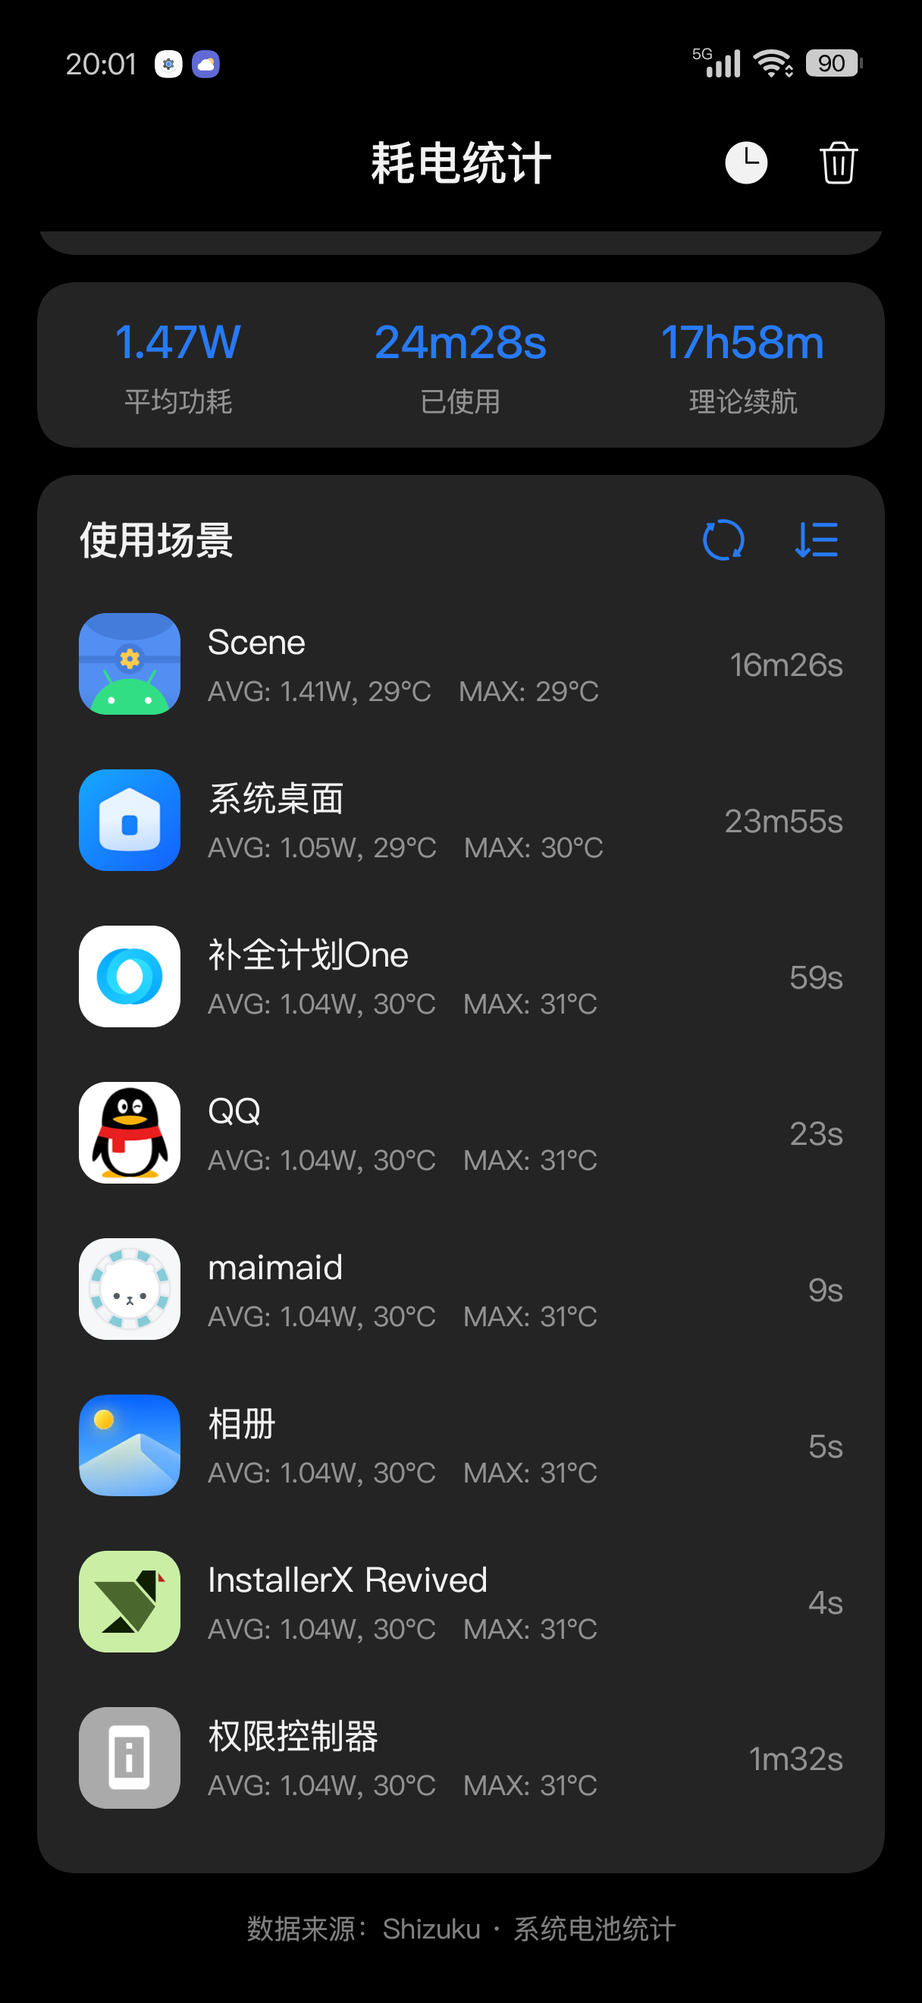
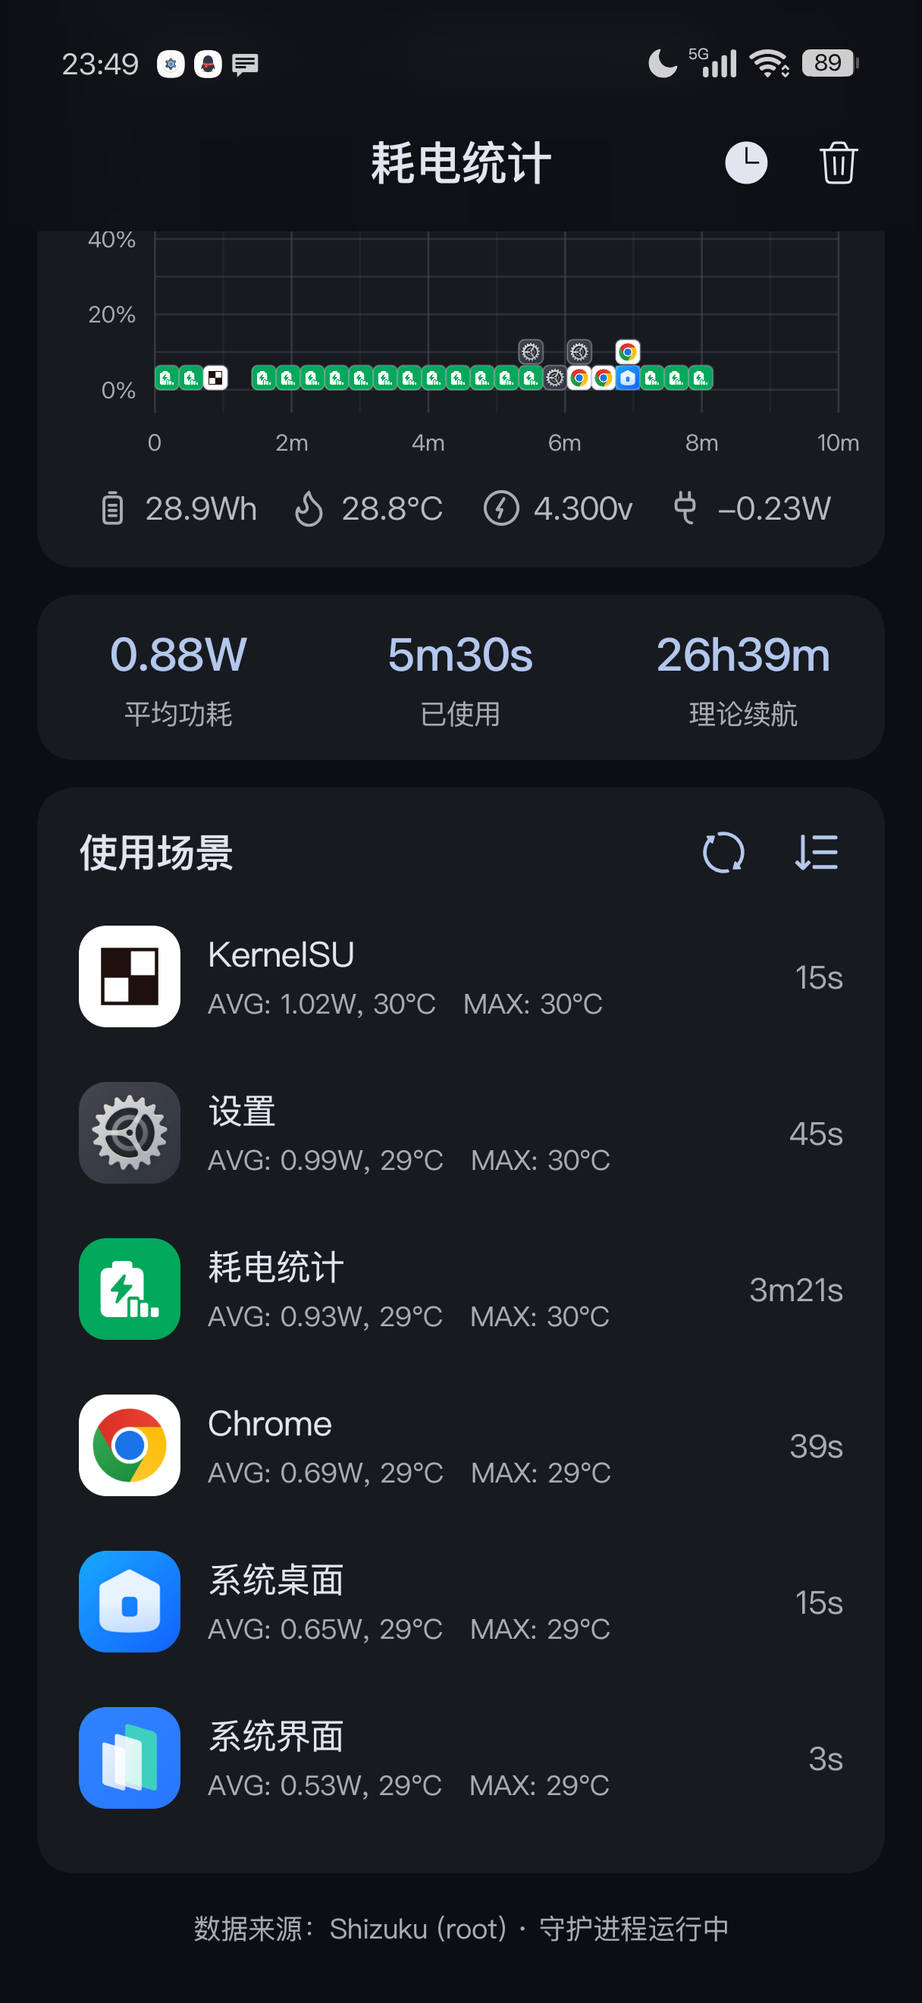
docs: rewrite README as a product introduction and refresh screenshots

diff --git a/README.md b/README.md
@@ -2,150 +2,85 @@
 
 > AI SLOP WARNING.
 
-把 Scene 的「耗电统计」页面单独拆出来做成的独立 App，界面用 **Jetpack Compose + [Miuix](https://github.com/compose-miuix-ui/miuix)**（HyperOS 风格设计系统）重新实现。
-
-参考设计里底部的「在寻找其它功能吗?」一栏按需求**不做**。
+**把 Scene 的「耗电统计」单独拆出来做的轻量 App。**
+实时功率、逐应用耗电、电量曲线，数据全部来自系统自己的电池统计——不上传、不联网。
 
 | 主界面 | 折叠标题 | 说明提示 | 历史记录 |
 | :---: | :---: | :---: | :---: |
 | <img src="docs/screenshots/01-main.png" width="200" /> | <img src="docs/screenshots/02-collapsed.png" width="200" /> | <img src="docs/screenshots/03-legend.png" width="200" /> | <img src="docs/screenshots/04-history.png" width="200" /> |
 
-## 功能
+## 功能一览
 
-| 区块 | 内容 |
-| --- | --- |
-| 使用过程 | 电量曲线：屏幕点亮（蓝色实线）/ 屏幕关闭（灰色实线）/ 未记录（蓝或灰虚线），左侧 0%–100% 刻度，底部时间轴按 Scene 的档位（10m/15m/30m/45m/…/24h）自动缩放 |
-| 图表 app 图标 | 与 Scene 同款：时间按 32px 分列，列内自 0% 基线向上堆叠（每层 34px，32px 图标 + 圆角描边），瓦数越大越靠上；**点击图表隐藏/显示** |
-| 遥测行 | 电池满容量（Wh，按健康度折算）· 温度（°C）· 电压（v）· 实时功率（放电 `-x.xxW` / 充电 `x.xxW`） |
-| 统计行 | 平均功耗 · 已使用 · 理论续航 |
-| 使用场景 | 全部应用（不截断）：前台时长、平均功耗、平均/最高温度；左键切换 W↔mA，右键切换功耗升/降序 |
-| 顶栏 | 大标题随滚动折叠为小标题（无返回键）；历史记录、清除本次统计（删除键有二次确认） |
-| 刷新 | 整页 Miuix PullToRefresh 下拉刷新统计（卡片内不再有刷新按钮） |
-| 历史记录 | 每次清除统计会存档一条：`-x%/h / xW / xWh / xh`，可单条删除或清空 |
-| 说明提示 | 图表虚线含义的说明弹窗（对齐参考图） |
-| 多语言 | 简体中文 / 繁體中文 / English / 日本語；跟随系统语言，Android 13+ 也可在「设置 → 应用 → 耗电统计 → 语言」里单独切换 |
+- **使用过程曲线**：亮屏（蓝色实线）、熄屏（灰色实线）、漏记（虚线）一眼区分；时间轴随会话时长在 10 分钟到 24 小时之间自动伸缩。
+- **图表上的 App 图标**：沿时间轴分列、自下而上堆叠，瓦数越高越靠上；点一下图表即可隐藏 / 显示。
+- **逐应用功耗**：每个 App 的前台时长、平均功耗、平均 / 最高温度，支持 W ↔ mA 切换与功耗排序。
+- **实时遥测**：满容量、温度、电压、瞬时功率（充电显示正值）。
+- **后台守护进程**：通过 Shizuku 以 root 身份独立采样，App 被系统冻结或杀掉也不断记录。
+- **会话与历史**：清除统计自动归档（`-x%/h / xW / xWh / 续航`），可单条删除或清空。
+- **多语言**：简体中文 / 繁體中文 / English / 日本語。
+- **轻量**：release APK 约 2.3 MB，只含 arm64-v8a，无网络权限。
 
-## 数据来源与算法（对齐 Scene 9.4.18）
+## 开始使用
 
-**只走 Shizuku / Sui**：启动即请求权限。Sui 以 root 运行时（`Shizuku.getUid() == 0`）优先读
-`/sys/class/power_supply/`（`current_now` / `voltage_now` / `capacity` / `temp` / `charge_full`，
-即 Scene 用的 sysfs 来源）；只有 shell 身份时退回 `dumpsys battery`；逐应用统计始终用
-`dumpsys batterystats`。
+1. 先装好并激活 **Shizuku**（或 Sui / KernelSU 这类能提供 root shell 的方案）。
+2. 安装 APK（见下方「安装」），打开应用。
+3. 首次启动会请求 Shizuku 授权，允许后即可看到数据。
+4. 正常使用手机即可，App 会在后台持续记录。
 
-| 项目 | 口径（与 Scene 一致） |
-| --- | --- |
-| 采样 | **只在「放电 + 亮屏」时**每 3 s 记一条；充电/满电不记；熄屏补一个标记点后停止 |
-| 平均功耗 | `avg(current × voltage)`（mW→W），只统计本会话亮屏放电样本 |
-| 已使用 | `样本数 × 3 s` |
-| 理论续航 | `剩余 Wh ÷ 平均功耗 × 0.9`（**按要求用剩余能量**，保留 Scene 的 0.9 折损） |
-| 满容量 Wh | `charge_full(mAh) × 3.86 V`（≤2510 mAh 时 ×2 处理双电芯）——本机 7500 × 3.86 = **28.9 Wh** |
-| 使用场景 | 同一批样本按包分组：`avg(current×voltage)`、`avg/min/max(温度)`、时长 `样本数×3 s`；不经整机平均兜底，没有样本的包不出现 |
-| 曲线 | 相邻样本间隔 **> 10 s** 判为未记录（虚线）；`包名/充电/电量/亮屏`任一变化即切段 |
-| 会话重置 | 间隔 > 24 h、间隔 > 30 s 且电量上升、`|I| > 60 A` |
+### 安装
 
-> **电流单位自校准**：这台 OPPO 的 `current_now`（0.1 mA 量级）与 `dumpsys` 的 `Battery current`
-> （mA 量级）都不是标准 µA，所以每次读数都按 µA/mA/0.1 mA 三种解释算功率，再与充电计数器的
-> ΔWh/Δt（≥5 s 窗口）比对，取比值 0.33–3 内最接近的那个；超界读数直接丢弃，不夹逼、不入库。
-
-界面底部显示 `数据来源：Shizuku (root) · 系统电池统计` 或 `Shizuku (shell)`。
-
-> 本机实测（OnePlus PLZ110 / Android 17 / 7500 mAh）：root 模式下瞬时功率 −0.74 W、
-> 平均功耗 1.36 W、理论续航 16h52m、哔哩哔哩逐应用 2.55 W —— 与 Scene 同量级（其对照片 2.03 W / 2.69 W）。
-
-## 权限
-
-- **Shizuku / Sui**：必需。安装并激活 Shizuku（或使用 Sui 这类 root 模块）后，应用启动会自动弹出授权请求。
-- **root（可选）**：在 Sui 里给本应用 root 权限后，瞬时功率/电压走 sysfs，跟上屏幕负载变化；
-  只有 shell 权限时用充电计数器估算（≥5 s 窗口，粒度 1 mAh），数值更保守。
-
-## 构建
-
-版本号：`versionName` 固定 `1.0`，`versionCode` 用 **git commit 数**，不用手改：
-
-| 字段 | 取值 |
-| --- | --- |
-| `versionName` | 固定 `1.0` |
-| `versionCode` | `git rev-list --count HEAD`（每次提交 +1，`adb install -r` 直接覆盖升级） |
-
-`versionCode` 可用 `-PversionCode=123`（或环境变量 `VERSION_CODE`）临时覆盖；
-不在 git 仓库里（比如源码压缩包）时回落到 `1`。
+从 [Actions](https://github.com/Shikochin/BatteryMonitor/actions) 最新一次构建的 Artifacts，或从 Releases 下载 `BatteryMonitor-1.0-build*.apk`：
 
 ```bash
-./gradlew -q :app:printVersion      # 看当前推导出的版本，例如 versionCode=4 / versionName=1.0
-./gradlew :app:assembleRelease
-# 产物：app/build/outputs/apk/release/app-release.apk
-
-adb install -r app/build/outputs/apk/release/app-release.apk
+adb install -r BatteryMonitor-1.0-build*-arm64-v8a.apk
 ```
 
-- **只打 arm64-v8a**（`ndk.abiFilters`），release APK 约 **2.3 MB**。
-- release 用 **debug 签名**（`signingConfig = signingConfigs.getByName("debug")`），只为侧载，不上架。
+本项目只做侧载：release 包使用 debug 签名，不上架应用商店。
 
-环境：JDK 17+（本机 Gradle 9.6 / JDK 25 可直接构建），Android SDK 37，minSdk 29。
+**系统要求**：Android 10+（minSdk 29），64 位 ARM 设备；Shizuku 权限必需，root 可选。
 
-### 包体积
+## 界面说明
 
-| 手段 | 效果 |
+| 区块 | 说明 |
 | --- | --- |
-| release 开 R8（`optimization.enable = true`），且**不限制 `packageScope`**（默认 `**`） | **8.5 MB → 2.35 MB**，最关键 |
-| `androidResources.localeFilters = ["zh", "zh-rTW", "en", "ja"]`（原来 AndroidX 带上百种语言） | −60 KB |
-| `packaging.resources.excludes`：META-INF 的许可/`.version` 文件、`DebugProbesKt.bin`、Kotlin builtin 反射元数据 | −23 KB |
-| `ui-tooling-preview` 改成 `debugImplementation` | 不进 release |
-| 只保留 arm64-v8a | 单 ABI 单包 |
+| 使用过程 | 电量曲线 + 曲线上的 App 图标；右上角显示当前电量，`?` 打开线型图例 |
+| 遥测行 | 满容量（Wh，按健康度折算）· 温度（°C）· 电压（v）· 实时功率 |
+| 统计行 | 平均功耗 · 已使用 · 理论续航 |
+| 使用场景 | 全部应用（不截断）：前台时长、平均功耗、平均 / 最高温度；左侧按钮切 W ↔ mA，右侧按钮切功耗升 / 降序 |
+| 顶栏 | 大标题随滚动折叠为小标题；历史记录、清除本次统计（删除前二次确认） |
+| 下拉刷新 | 整页下拉即可重新读取统计 |
+| 历史记录 / 说明提示 | 清除统计后自动归档的会话，以及图表线型说明 |
 
-> `optimization.packageScope` 一旦写窄（比如只写 `androidx.**`、`kotlin.**`），其他包就完全不参与
-> R8 的裁剪/混淆，dex 会从 2.1 MB 涨回 8 MB；保持默认 `**` 才能拿到完整优化。
+## 数据从哪来
 
-## CI（GitHub Actions）
+- **Shizuku（必需）**：通过 Shizuku 读取系统自己的电池数据——root 模式直读 sysfs，只有 shell 权限时读 `dumpsys`；逐应用统计始终来自 `dumpsys batterystats`。
+- **权限**：只申请了 `QUERY_ALL_PACKAGES`（读取应用列表与图标），**没有网络权限**，所有数据留在本机。
+- 采样规则、功耗与续航公式、电流单位自校准等实现细节见 [docs/algorithm.md](docs/algorithm.md)。
 
-`.github/workflows/android.yml`：push 到 `main`、PR、手动触发都会构建一个 release APK（arm64-v8a、debug 签名），
-版本号规则与本地一致，产物按 `BatteryMonitor-1.0-build<commit 数>-arm64-v8a.apk` 上传到 Actions Artifacts；
-打 `v*` tag 时还会附到 GitHub Release。构建前会校验 APK 的 `versionCode`、ABI 和签名。
+## 多语言
 
-- `checkout` 必须 `fetch-depth: 0`，浅克隆算出来的 commit 数是 1。
-- workflow 缓存 `~/.android/debug.keystore`，让不同次 CI 构建的签名保持一致、可以互相覆盖安装；
-  它和本机 debug 签名的包互不兼容，跨来源安装要先卸载。
+界面支持简体中文、繁體中文、English、日本語：默认跟随系统语言；Android 13+ 还可以在
+「设置 → 应用 → 耗电统计 → 语言」里单独切换，不影响系统语言。
+
+## 构建（开发者）
+
+环境：JDK 17+，Android SDK 37；Gradle 9.8.2（wrapper 已配置，`./gradlew` 即可）。
+
+```bash
+./gradlew :app:assembleRelease
+# 产物：app/build/outputs/apk/release/app-release.apk
+```
+
+- 版本号：`versionName` 固定 `1.0`，`versionCode` = git commit 数（`git rev-list --count HEAD`），本地与 CI 一致。
+- release：R8 全量优化、只打 arm64-v8a、资源只保留实际用到的语言，APK 约 **2.3 MB**。
+- CI：[`.github/workflows/android.yml`](.github/workflows/android.yml) 在 push / PR 时自动构建，并校验 `versionCode`、ABI 与签名后上传 Artifacts；打 `v*` tag 会附带 GitHub Release。
 
 ## 技术栈
 
-- Kotlin，AGP 9 内置 Kotlin 支持（无需单独应用 Kotlin 插件）
-- Compose BOM `2026.09.00`
-- Miuix `0.9.4`（`miuix-ui` + `miuix-icons`）
-- Shizuku API `13.1.5`（`api` + `provider`）
-- 状态：`StateFlow` + `AndroidViewModel`，无第三方 DI / 数据库依赖
+Kotlin · Jetpack Compose · [Miuix](https://github.com/compose-miuix-ui/miuix)（HyperOS 风格设计系统）· Shizuku API。
+状态层用 `StateFlow` + `AndroidViewModel`，没有第三方 DI 或数据库依赖。
 
-## 结构
+## 说明
 
-```
-app/src/main/java/dev/shiko/batterymonitor/
-├── MainActivity.kt              # 入口，权限跳转
-├── PowerStatsViewModel.kt       # 仅做生命周期桥接
-├── model/Models.kt              # BatterySnapshot / ChartSample / UsageScenario / PowerUiState …
-├── data/
-│   ├── PowerStatsRepository.kt  # 聚合状态，两条数据通道的统一出口
-│   ├── BatterySampler.kt        # 广播 + 定时采样
-│   ├── UsageStatsProvider.kt    # UsageStatsManager + 图标/标签
-│   ├── ShizukuBridge.kt         # Shizuku 服务检测、授权、exec
-│   ├── SystemBatteryStatsSource.kt # dumpsys battery / batterystats 解析
-│   ├── PowerMath.kt             # 功耗、续航、平滑等纯计算
-│   └── SessionStore.kt          # SharedPreferences 持久化
-├── ui/
-│   ├── PowerStatsScreen.kt      # Scaffold + 折叠顶栏 + 卡片编排
-│   ├── theme/Theme.kt           # MiuixTheme 明暗配色
-│   └── component/
-│       ├── UsageProcessCard.kt  # 使用过程卡片
-│       ├── UsageChart.kt        # Canvas 曲线
-│       ├── TelemetryIcons.kt    # 手绘电池/温度/电压/插头图标
-│       ├── ChartLegendDialog.kt # 说明提示弹窗
-│       ├── StatSummaryCard.kt   # 平均功耗/已使用/理论续航
-│       ├── UsageScenarioCard.kt # 使用场景列表
-│       └── SessionHistoryDialog.kt
-└── util/Format.kt               # 时长/功率/温度/电压格式化
-```
-
-## 与参考图的差异
-
-- 顶栏改为可折叠大标题（按需求），并去掉返回按钮。
-- 配色使用 Miuix 的 token（卡片 `surfaceContainer` #242424，页面 `surface` 纯黑），与参考图的 #0A0A0A 卡片略有不同。
-- 字号整体比参考图大约 1–2sp。
-- 遥测图标为本项目手绘的矢量图（参考图的图形在 Miuix 图标集中不存在）。
+- 界面与数据口径参考 **Scene 9.4.18** 的「耗电统计」，仅作个人使用，与 Scene 官方无关。
+- 本项目由 AI 辅助开发（AI SLOP WARNING）。

diff --git a/docs/algorithm.md b/docs/algorithm.md
@@ -1,0 +1,134 @@
+# 数据口径与实现细节
+
+这份文档记录「耗电统计」的数据来源、算法和工程细节，口径对齐 **Scene 9.4.18** 的「耗电统计」。
+普通使用只需要看 [README](../README.md)。
+
+## 数据来源
+
+只走 Shizuku / Sui：启动即请求权限。Sui 以 root 运行时（`Shizuku.getUid() == 0`）优先读
+`/sys/class/power_supply/`（`current_now` / `voltage_now` / `capacity` / `temp` / `charge_full`，
+即 Scene 用的 sysfs 来源）；只有 shell 身份时退回 `dumpsys battery`；逐应用统计始终用
+`dumpsys batterystats`。
+
+## 算法与口径
+
+| 项目 | 口径（与 Scene 一致） |
+| --- | --- |
+| 采样 | **只在「放电 + 亮屏」时**每 3 s 记一条；充电/满电不记；熄屏补一个标记点后停止 |
+| 平均功耗 | `avg(current × voltage)`（mW→W），只统计本会话亮屏放电样本 |
+| 已使用 | `样本数 × 3 s` |
+| 理论续航 | `剩余 Wh ÷ 平均功耗 × 0.9`（**按要求用剩余能量**，保留 Scene 的 0.9 折损） |
+| 满容量 Wh | `charge_full(mAh) × 3.86 V`（≤2510 mAh 时 ×2 处理双电芯）——本机 7500 × 3.86 = **28.9 Wh** |
+| 使用场景 | 同一批样本按包分组：`avg(current×voltage)`、`avg/min/max(温度)`、时长 `样本数×3 s`；不经整机平均兜底，没有样本的包不出现 |
+| 曲线 | 相邻样本间隔 **> 10 s** 判为未记录（虚线）；`包名/充电/电量/亮屏`任一变化即切段 |
+| 会话重置 | 间隔 > 24 h、间隔 > 30 s 且电量上升、`|I| > 60 A` |
+
+### 图表坐标
+
+- x 轴按 Scene 的档位表（10 / 15 / 30 / 45 / 60 / 90 / … / 1440 分钟）自动选取，`x = (时间 - 首条) / 60000 * 像素每分钟`。
+- y 轴固定 0 %–100 %，每 10 % 一条横线、每 20 % 一个标签。
+- App 图标：时间轴按 32 px 分列，同列自 0 % 基线向上每 34 px 叠一个（32 px 图标 + 圆角描边）；同列内瓦数大的在上。
+
+### 后台守护进程
+
+App 自身的进程在后台会被系统冻结（ColorOS 上约 10 秒后 `cgroup.freeze=1`），因此 3 秒采样循环由
+Shizuku 以 root 启动的独立 `sh` 守护进程完成：它把采样追加到
+`files/monitor/samples.log`，App 回到前台后按偏移增量读取并套用上面的规则。
+守护进程与 App 进程解耦，App 被冻结或杀掉都不会中断记录。
+
+### 电流单位自校准
+
+这台 OPPO 的 `current_now`（0.1 mA 量级）与 `dumpsys` 的 `Battery current`（mA 量级）都不是标准 µA，
+所以每次读数都按 µA/mA/0.1 mA 三种解释算功率，再与充电计数器的 ΔWh/Δt（≥5 s 窗口）比对，
+取比值 0.33–3 内最接近的那个；超界读数直接丢弃，不夹逼、不入库。
+
+界面底部显示 `数据来源：Shizuku (root) · 守护进程运行中` 或 `Shizuku (shell)`。
+
+> 本机实测（OnePlus PLZ110 / Android 17 / 7500 mAh）：root 模式下瞬时功率 −0.74 W、
+> 平均功耗 1.36 W、理论续航 16h52m、哔哩哔哩逐应用 2.55 W —— 与 Scene 同量级（其对照片 2.03 W / 2.69 W）。
+
+## 权限
+
+- **Shizuku / Sui**：必需。安装并激活 Shizuku（或使用 Sui 这类 root 模块）后，应用启动会自动弹出授权请求。
+- **root（可选）**：在 Sui 里给本应用 root 权限后，瞬时功率/电压走 sysfs，跟上屏幕负载变化；
+  只有 shell 权限时用充电计数器估算（≥5 s 窗口，粒度 1 mAh），数值更保守。
+- 只申请 `QUERY_ALL_PACKAGES`，没有网络权限。
+
+## 版本号与构建
+
+`versionName` 固定 `1.0`，`versionCode` 用 **git commit 数**：
+
+| 字段 | 取值 |
+| --- | --- |
+| `versionName` | 固定 `1.0` |
+| `versionCode` | `git rev-list --count HEAD`（每次提交 +1，`adb install -r` 直接覆盖升级） |
+
+`versionCode` 可用 `-PversionCode=123`（或环境变量 `VERSION_CODE`）临时覆盖；
+不在 git 仓库里（比如源码压缩包）时回落到 `1`。
+
+```bash
+./gradlew -q :app:printVersion      # 例如 versionCode=17 / versionName=1.0
+./gradlew :app:assembleRelease
+adb install -r app/build/outputs/apk/release/app-release.apk
+```
+
+## 包体积
+
+| 手段 | 效果 |
+| --- | --- |
+| release 开 R8（`optimization.enable = true`），且**不限制 `packageScope`**（默认 `**`） | **8.5 MB → 2.35 MB**，最关键 |
+| `androidResources.localeFilters = ["zh", "zh-rTW", "ja"]`（原来 AndroidX 带上百种语言） | −60 KB |
+| `packaging.resources.excludes`：META-INF 的许可/`.version` 文件、`DebugProbesKt.bin`、Kotlin builtin 反射元数据 | −23 KB |
+| `ui-tooling-preview` 改成 `debugImplementation` | 不进 release |
+| 只保留 arm64-v8a | 单 ABI 单包 |
+
+> `optimization.packageScope` 一旦写窄（比如只写 `androidx.**`、`kotlin.**`），其他包就完全不参与
+> R8 的裁剪/混淆，dex 会从 2.1 MB 涨回 8 MB；保持默认 `**` 才能拿到完整优化。
+
+## CI（GitHub Actions）
+
+`.github/workflows/android.yml`：push 到 `main`、PR、手动触发都会构建一个 release APK（arm64-v8a、debug 签名），
+版本号规则与本地一致，产物按 `BatteryMonitor-1.0-build<commit 数>-arm64-v8a.apk` 上传到 Actions Artifacts；
+打 `v*` tag 时还会附到 GitHub Release。构建前会校验 APK 的 `versionCode`、ABI 和签名。
+
+- `checkout` 必须 `fetch-depth: 0`，浅克隆算出来的 commit 数是 1。
+- workflow 缓存 `~/.android/debug.keystore`，让不同次 CI 构建的签名保持一致、可以互相覆盖安装；
+  它和本机 debug 签名的包互不兼容，跨来源安装要先卸载。
+
+## 工程结构
+
+```
+app/src/main/java/dev/shiko/batterymonitor/
+├── MainActivity.kt                  # 入口，权限跳转
+├── PowerStatsViewModel.kt           # 生命周期桥接
+├── model/Models.kt                  # BatterySnapshot / ChartSample / UsageScenario / PowerUiState …
+├── data/
+│   ├── PowerStatsRepository.kt      # 聚合状态，采样 / 图表 / 场景的统一出口
+│   ├── RootMonitorDaemon.kt         # Shizuku root 守护进程的启动与采样日志读取
+│   ├── SysfsBatterySource.kt        # sysfs 电池节点解析
+│   ├── ShizukuBridge.kt             # Shizuku 服务检测、授权、exec
+│   ├── SystemBatteryStatsSource.kt  # dumpsys battery / batterystats 解析
+│   ├── CurrentCalibrator.kt         # 电流单位自校准
+│   ├── PowerMath.kt                 # 功耗、续航、采样常量等纯计算
+│   ├── SessionAggregates.kt         # 逐应用累计
+│   └── SessionStore.kt              # SharedPreferences 持久化
+├── ui/
+│   ├── PowerStatsScreen.kt          # Scaffold + 折叠顶栏 + 卡片编排
+│   ├── theme/Theme.kt               # MiuixTheme 明暗配色
+│   └── component/
+│       ├── UsageProcessCard.kt      # 使用过程卡片
+│       ├── UsageChart.kt            # Canvas 曲线 + 图表图标
+│       ├── TelemetryIcons.kt        # 手绘电池/温度/电压/插头图标
+│       ├── ChartLegendDialog.kt     # 说明提示弹窗
+│       ├── StatSummaryCard.kt       # 平均功耗/已使用/理论续航
+│       ├── UsageScenarioCard.kt     # 使用场景列表
+│       └── SessionHistoryDialog.kt
+└── util/Format.kt                   # 时长/功率/温度/电压格式化
+```
+
+## 与参考图的差异
+
+- 顶栏改为可折叠大标题（按需求），并去掉返回按钮。
+- 配色使用 Miuix 的 token（卡片 `surfaceContainer` #242424，页面 `surface` 纯黑），与参考图的 #0A0A0A 卡片略有不同。
+- 字号整体比参考图大约 1–2sp。
+- 遥测图标为本项目手绘的矢量图（参考图的图形在 Miuix 图标集中不存在）。
